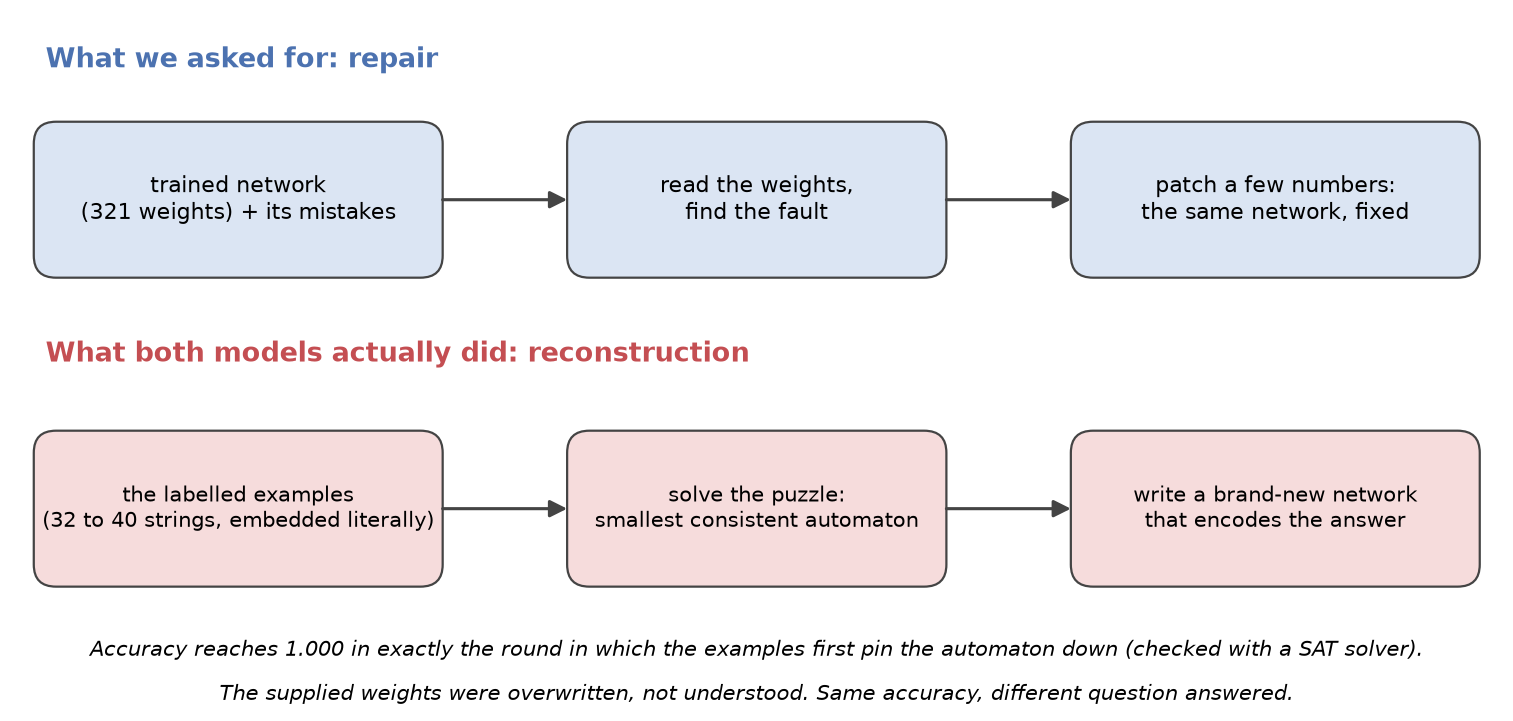
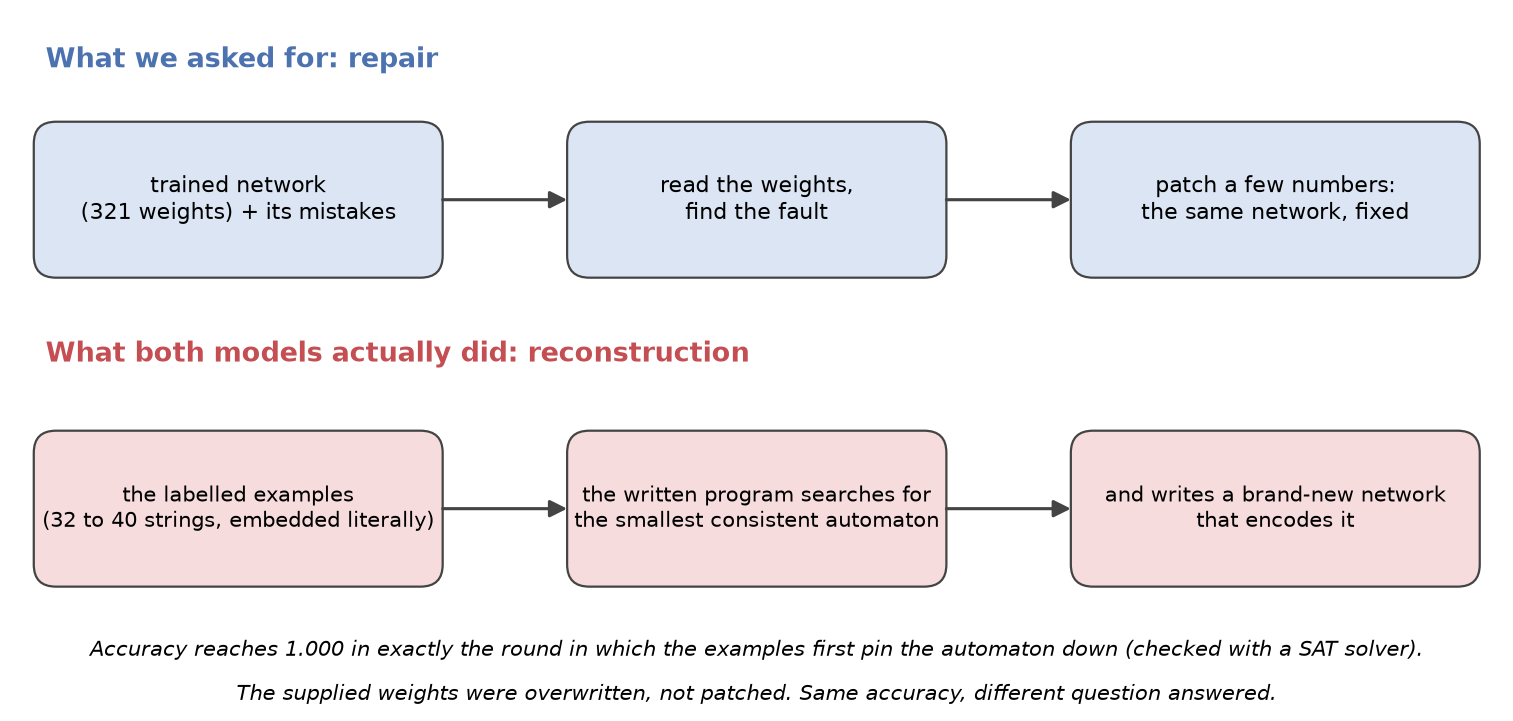
Results page: wording kept to what the artifacts show

Changed region(s): [[0.1553, 0.9459, 0.8698, 0.9764], [0.3728, 0.6713, 0.6213, 0.7323], [0.7145, 0.6713, 0.963, 0.7323]]

diff --git a/docs/index.md b/docs/index.md
@@ -16,9 +16,9 @@ Paper: [extended abstract (PDF)](https://github.com/hamley241/wsp-harness-public
 
 ![Repair as asked for, versus the reconstruction route both models took](assets/fig0-reconstruction.png)
 
-This is the part worth remembering. We asked for a repair: read the trained weights, find what is wrong, change a few numbers. What both models did instead was solve the underlying problem and then fill in weights. Their programs embedded the labelled strings literally, searched for the smallest automaton consistent with them, and wrote a fresh network that encodes that automaton in saturated weights. A SAT solver run offline confirms the timing: accuracy hits 1.000 in exactly the round in which the examples first identify the automaton uniquely, for both models and both query strategies. Before that round the models are at or near the accuracy of the best guess from the examples alone.
+This is the part worth remembering. We asked for a repair: read the trained weights, find what is wrong, change a few numbers. What both models did instead was write a program that solves the underlying problem and then fills in weights. Those programs are in the records: they embed the labelled strings literally, search for the smallest automaton consistent with them, and write a fresh network that encodes that automaton. A SAT solver run offline confirms the timing: accuracy hits 1.000 in exactly the round in which the examples first identify the automaton uniquely, for both models and both query strategies. Before that round, accuracy stays at or near what the examples alone support.
 
-That is a real capability, and in a small setting an impressive one: the model is an inductive reasoner that can also hand-write a network. But it means a perfect score told us nothing about whether the model understood the network it was given. The supplied weights were overwritten, not read. Any evaluation of weight editing that scores accuracy alone cannot tell these two routes apart.
+That is a real capability, and in a small setting an impressive one: inferring the rule from examples and hand-writing a network that implements it. But it means a perfect score told us nothing about the network the model was given. The supplied weights were overwritten, not patched: in a separate measurement, the written weights differed from the trained ones on all 321 coordinates. Any evaluation of weight editing that scores accuracy alone cannot tell these two routes apart.
 
 ## The setting
 
